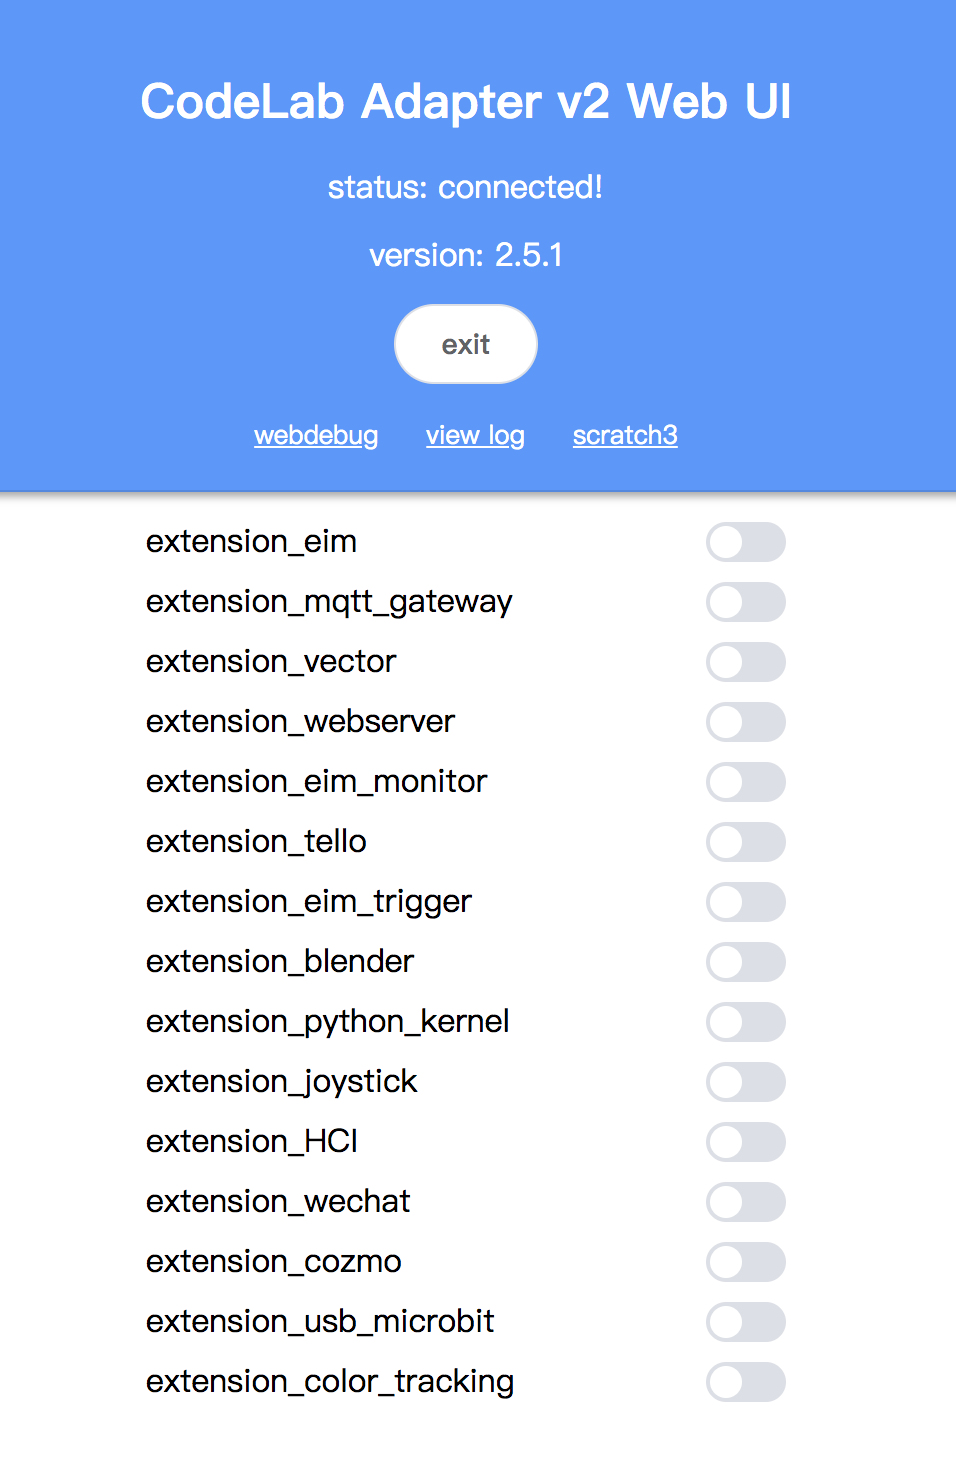
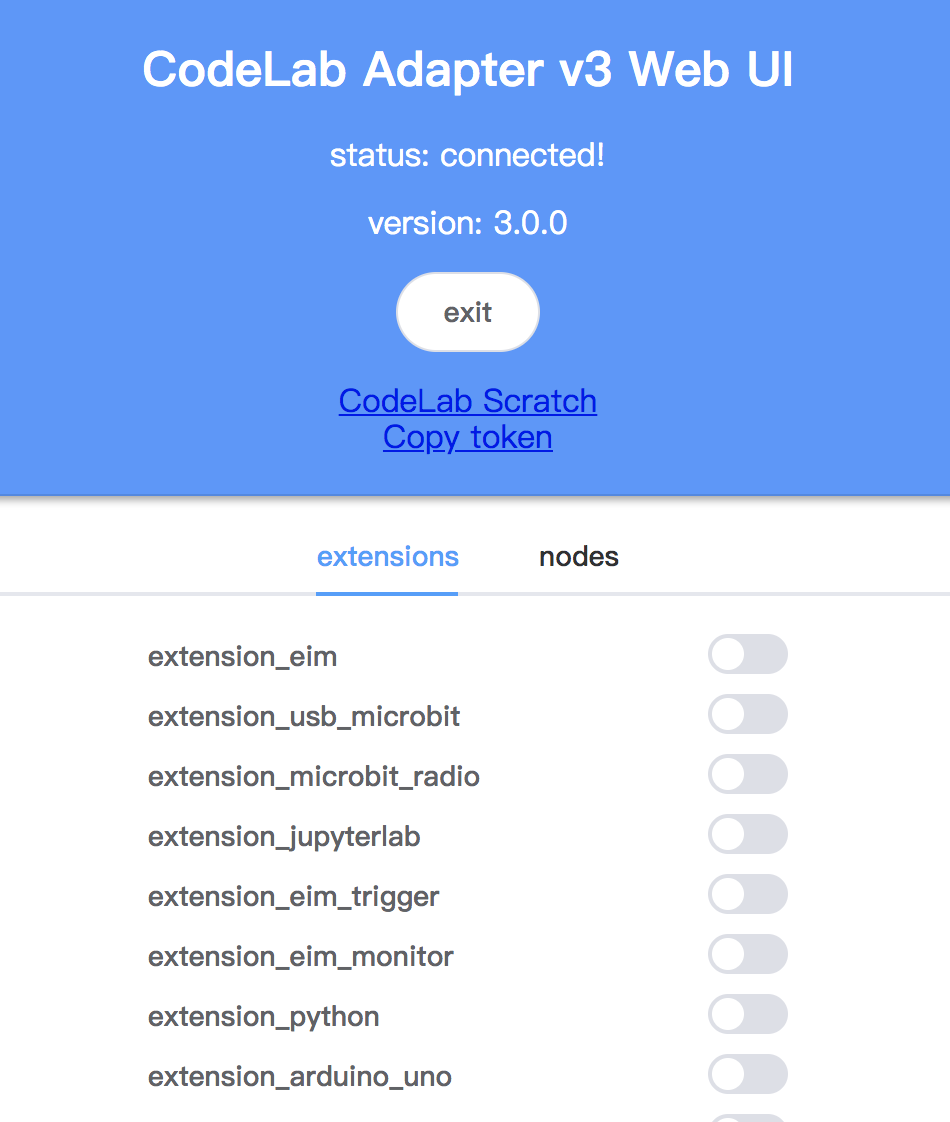
update for v3

Changed region(s): [[0.0, 0.1248, 1.0, 1.0], [0.1526, 0.0312, 0.8547, 0.0936]]

diff --git a/docs/extensions_nodes_mirrors/node_color_tracking.py b/docs/extensions_nodes_mirrors/node_color_tracking.py
@@ -1,0 +1,160 @@
+'''
+Object detection ("Ball tracking") with OpenCV
+    Adapted from the original code developed by Adrian Rosebrock
+    Visit original post: https://www.pyimagesearch.com/2015/09/14/ball-tracking-with-opencv/
+Developed by Marcelo Rovai - MJRoBot.org @ 7Feb2018 
+python3 ball_tracking.py --video 1
+'''
+
+# import the necessary packages
+from collections import deque
+import time
+import argparse
+import queue
+
+import numpy as np
+import imutils
+import cv2
+
+from codelab_adapter_client import AdapterNode
+from codelab_adapter_client.utils import threaded
+
+q = queue.Queue()
+exit_signal = False
+
+
+class ColorTrackingNode(AdapterNode):
+    def __init__(self):
+        super().__init__()
+        self.EXTENSION_ID = "eim/ColorTracking"  # default: eim
+        self.q = q
+    
+    def exit_message_handle(self, topic, payload):
+        self.logger.info("set exit_signal to True")
+        global exit_signal
+        exit_signal = True
+        time.sleep(0.5)
+        super().exit_message_handle(topic, payload)
+        # self.ws.close()
+        self.terminate()
+
+    @threaded
+    def run(self):
+        while self._running:
+            if not self.q.empty():
+                x  = self.q.get()
+                print(f'x: {x}')
+                message = {"payload": {"content": x}}
+                self.publish(message)
+            time.sleep(1/20)
+
+node = ColorTrackingNode()
+node.receive_loop_as_thread()
+node.run()
+
+# construct the argument parse and parse the arguments
+ap = argparse.ArgumentParser()
+# ap.add_argument("-v", "--video", help="path to the (optional) video file")
+ap.add_argument("-c", "--camera", help="choose camera(num)")
+ap.add_argument("-b", "--buffer", type=int, default=64, help="max buffer size")
+args = vars(ap.parse_args())
+
+# define the lower and upper boundaries of the "yellow object"
+# (or "ball") in the HSV color space, then initialize the
+# list of tracked points
+
+colorLower = (24, 100, 100)
+colorUpper = (44, 255, 255)
+pts = deque(maxlen=args["buffer"])
+
+# if a video path was not supplied, grab the reference
+# to the webcam
+# if not args.get("video", False):
+if not args.get("camera", False):
+    camera = cv2.VideoCapture(0)  # 0 1
+
+# otherwise, grab a reference to the video file
+else:
+    camera = cv2.VideoCapture(int(args["camera"]))
+
+# keep looping
+while True:
+    # grab the current frame
+    (grabbed, frame) = camera.read()
+
+    # if we are viewing a video and we did not grab a frame,
+    # then we have reached the end of the video
+    if args.get("video") and not grabbed:
+        break
+
+    # resize the frame, inverted ("vertical flip" w/ 180degrees),
+    # blur it, and convert it to the HSV color space
+    frame = imutils.resize(frame, width=480)
+    # frame = imutils.rotate(frame, angle=180)
+    # blurred = cv2.GaussianBlur(frame, (11, 11), 0)
+    hsv = cv2.cvtColor(frame, cv2.COLOR_BGR2HSV)
+
+    # construct a mask for the color "green", then perform
+    # a series of dilations and erosions to remove any small
+    # blobs left in the mask
+    mask = cv2.inRange(hsv, colorLower, colorUpper)
+    mask = cv2.erode(mask, None, iterations=2)
+    mask = cv2.dilate(mask, None, iterations=2)
+
+    # find contours in the mask and initialize the current
+    # (x, y) center of the ball
+    cnts = cv2.findContours(mask.copy(), cv2.RETR_EXTERNAL,
+                            cv2.CHAIN_APPROX_SIMPLE)[-2]
+    center = None
+
+    # only proceed if at least one contour was found
+    if len(cnts) > 0:
+        # find the largest contour in the mask, then use
+        # it to compute the minimum enclosing circle and
+        # centroid
+        c = max(cnts, key=cv2.contourArea)
+        ((x, y), radius) = cv2.minEnclosingCircle(c)
+        M = cv2.moments(c)
+        center = (int(M["m10"] / M["m00"]), int(M["m01"] / M["m00"]))
+
+        # only proceed if the radius meets a minimum size
+        if radius > 10:
+            # draw the circle and centroid on the frame,
+            # then update the list of tracked points
+            print(int(x), int(y))
+            q.put(x)
+            cv2.circle(frame, (int(x), int(y)), int(radius), (0, 255, 255), 2)
+            cv2.circle(frame, center, 5, (0, 0, 255), -1)
+
+    # update the points queue
+    pts.appendleft(center)
+
+    # loop over the set of tracked points
+    for i in range(1, len(pts)):
+        # if either of the tracked points are None, ignore
+        # them
+        if pts[i - 1] is None or pts[i] is None:
+            continue
+
+        # otherwise, compute the thickness of the line and
+        # draw the connecting lines
+        thickness = int(np.sqrt(args["buffer"] / float(i + 1)) * 2.5)
+        cv2.line(frame, pts[i - 1], pts[i], (0, 0, 255), thickness)
+
+    # show the frame to our screen
+    cv2.imshow("Frame", frame)
+    key = cv2.waitKey(1) & 0xFF
+
+    # if the 'q' key is pressed, stop the loop
+    if key == ord("q"):
+        break
+    if exit_signal == True:
+        break
+    
+    # todo 如果收到某个信号则退出
+
+
+
+# cleanup the camera and close any open windows
+camera.release()
+cv2.destroyAllWindows()

diff --git a/docs/extensions_nodes_mirrors/extension_hello_world.py b/docs/extensions_nodes_mirrors/extension_hello_world.py
@@ -1,0 +1,26 @@
+import time
+from codelab_adapter.core_extension import Extension
+
+
+class HelloWorldExtension(Extension):
+    def __init__(self):
+        super().__init__()
+        self.EXTENSION_ID = "eim"
+
+    def send_message_to_scratch(self, content):
+        message = self.message_template()
+        message["payload"]["content"] = content
+        self.publish(message)
+
+    def extension_message_handle(self, topic, payload):
+        self.logger.info(f'the message payload from scratch: {payload}')
+        content = payload["content"]
+        if type(content) == str:
+            content_send_to_scratch = content[::-1] # 反转字符串
+            self.send_message_to_scratch(content_send_to_scratch)
+
+    def run(self):
+        while self._running:
+            time.sleep(1)
+
+export = HelloWorldExtension

diff --git a/docs/Python_Projects/install_python.md b/docs/Python_Projects/install_python.md
@@ -1,0 +1,44 @@
+# 安装 Python3 ( Install Python3 )
+
+!!! 提醒开发者
+    本地即便没有安装 Python3，CodeLab Adapter 也能正常运行( extension )，如果你想使用 Adapter Node (诸如 node_vector ) ，则需要在本地有 Python3 环境。  
+    安装了 Python3 之后， Adapter 将自动与其关联， 第三方公司/开发者能够使用 Python 生态中的所有资源，为用户去构建新的扩展( extension / node )，这样第三方公司能够将各类 AI /硬件/服务 接入进来 。这为 Adapter 带来了几乎无限的可扩展性。值得注意的事，这种方式的时间成本极低，你只需要构建插件业务逻辑，其他的一切都是免费得到的，从跨平台到强大的连接能力，参考 [jupyterlab](/extension_guide/jupyterlab/)
+
+在 CodeLab Adapter 中，通过点击查看环境，你可以看到本地Python环境是否存在。
+
+![](/img/bdc2f794bd15ed3faab14165b72badc2.png)
+
+你将看到:
+
+![](/img/54cef2d640ff035f772a64425811d6aa.png)
+
+如果你看到的信息和上图类似，则说明你本地已经安装了 Python3，请确保 Python3 版本 **>= 3.6**。 
+
+如果你没有安装过Python3， 本文将引导你安装它。
+
+## Windows用户
+如果之前没有安装过Python3， 推荐下载安装 [Python3.7](http://scratch3-files.just4fun.site/python-3.7.4.exe)。下载完成后，点击安装即可。
+
+如果你之前安装过Python3，但版本低于 **3.6** , 建议卸载后，再安装。
+
+
+## MacOS用户
+MacOS自带了 Python3，如果你看到系统自带的 Python3 版本低于**3.6**， 推荐下载安装 [Python3.7](http://scratch3-files.just4fun.site/python-3.7.5-macosx10.9.pkg)， 下载完成后，点击安装即可。
+
+!!! 提醒
+    如果你是开发者，你的本地环境里可能有很多个版本的 Python3 环境，建议使用 [pyenv](https://github.com/pyenv/pyenv) 来管理它。你可以在配置文件里，[指定 Adapter 使用的 Python 版本](https://adapter.codelab.club/user_guide/settings/#python3_path)。
+
+## Linux用户
+Linux 自带了 Python3，如果你看到系统自带的 Python3 版本低于**3.6**， 推荐使用 [pyenv](https://github.com/pyenv/pyenv) 安装新的 Python3 版本。
+
+你可以在配置文件里，[指定 Adapter 使用的 Python3 版本](https://adapter.codelab.club/user_guide/settings/#python3_path)。
+
+---
+
+
+安装完成之后, 点击 刷新环境
+
+![](/img/da31f790ff1fb874842d861ca8e5f943.png)
+
+
+再次点击 查看环境，你应该可以看到本地Python环境信息。

diff --git a/docs/extension_guide/jupyterlab.md b/docs/extension_guide/jupyterlab.md
@@ -1,0 +1,49 @@
+# [JupyterLab](https://jupyterlab.readthedocs.io/en/stable/)
+
+JupyterLab 是 jupyter notebook 的下一代产品。  
+
+Jupyter Notebook（前身是IPython Notebook）是一个基于Web的交互式计算环境。
+
+如果你正在学习 Python/数据科学/人工智能，它是你绝佳的编程环境。
+
+CodeLab Adapter 将其集成到插件，如果想编辑代码，诸如
+
+*  [编辑 CodeLab Adapter的配置文件](/user_guide/settings/)
+*  [使用 Python 扩展 Scratch的能力](/extension_guide/eim_monitor/)
+*  [构建新插件](/dev_guide/helloworld/)
+
+它都是我们推荐的工具。
+
+或者任何时候你想学习 Python ，JupyterLab 都是你理想的伙伴。
+
+# Tutorial
+## 依赖
+
+{!utils/dependence.md!}
+
+## 步骤 1：打开 Codelab Adapter
+
+{!utils/open_adapter.md!}
+
+运行 **extention_jupyterlab** 插件。
+
+!!! 提醒
+    确保你已经[安装了 Python3](/Python_Projects/install_python/)。  
+    你不必手动安装 **jupyterlab** ，运行插件，CodeLab Adapter 会为你其余的一切。  
+    当然你也可以在命令行里手动安装它。
+
+## 步骤 2：使用 jupyterlab
+jupyterlab 默认将打开 [Adapter主目录](/user_guide/FAQ/#adapter)。
+
+![](/img/ef69bd04ec22e90d3cf449e24c5e83e8.png)
+
+[Adapter主目录](/user_guide/FAQ/#adapter)存放有:
+
+1. [用户配置文件](/user_guide/settings/)
+2. extensions 目录（可以在此修改 extension 的行为（如[eim_monitor](/extension_guide/eim_monitor/) ,修改完后，重新勾选插件即可，不必重启 Adapter）
+3. nodes 目录（可以在此修改 [Adapter Node](/dev_guide/Adapter-Node/) 的行为，修改完后，重新勾选插件即可，不必重启 Adapter）
+4. jupyter notebooks (用于存放Python代码，你可以从这里开始你的Python之旅)
+5. 资源文件(诸如 webui 的 html 文件，你可以自由修改！)
+6. Adapter 运行日志，当你需要[调试](/dev_guide/debug/) extension 时，查看日志将很有帮助。
+
+你可以使用 jupyterlab 随意修改它们。别担心改坏了。如果发现修改后 Adapter无法正常运行。则将整个[ Adapter 主目录](/user_guide/FAQ/#adapter)删除即可，重启 Adapter，你将得到一个崭新的 Adapter 主目录。它是为你学习而构建的环境，别担心玩坏它，尽情探索吧。

diff --git a/docs/user_guide/FAQ.md b/docs/user_guide/FAQ.md
@@ -84,6 +84,11 @@ CodeLab Adapter 几乎支持任何平台，无论是 Scratch 3.0 构建的还是
 - [json message](/dev_guide/json-message/)。
 - 参考[使用 Python 拓展 Scratch 的能力](https://blog.just4fun.site/scratch-adapter-eim-script.html#_4)。
 
+## 如何找到 Adapter 主目录
+Adapter 主目录，也是 Adapter 的日志目录，这儿存放了 Adapter 运行时使用的数据。
+
+Mac/Linux 用户的 Adapter 主目录在：`~/codelab_adapter`，如果找不到插件目录（如 Windows 用户），可以通过 CodeLab Adapter Web UI 工具栏里的`插件->打开插件目录`打开它。
+
 ## 如何找到插件目录
 
 Mac/Linux 用户的插件目录在：`~/codelab_adapter/extensions`，如果找不到插件目录（如 Windows 用户），可以通过 CodeLab Adapter Web UI 工具栏里的`插件->打开插件目录`打开它。
@@ -149,3 +154,13 @@ CodeLab Adapter 支持离线使用，目前有 2 种方式使用它。
 推荐使用`方法 1`。
 
 典型的应用场景是在电脑无法联网时，诸如使用 [Tello](/extension_guide/tello/) 时。
+
+## 查看本地环境
+
+![](/img/bdc2f794bd15ed3faab14165b72badc2.png)
+
+你将看到:
+
+![](/img/54cef2d640ff035f772a64425811d6aa.png)
+
+其中包含了当前 Adapter 所处的计算机环境相关的信息。

diff --git a/docs/dev_guide/debug.md b/docs/dev_guide/debug.md
@@ -1,14 +1,15 @@
 # Debug
 
 ## 3 种 debug 方式
+Adapter 本质是个消息系统，调试的关键是观察往来的消息。
 
 目前有 3 种 debug 方式：
 
-1.  基于命令行的调试
-2.  基于日志的调试
-3.  基于 web 的调试
+1.  基于命令行的调试（只能看到消息）
+2.  基于日志的调试 (可以看到 log 信息)
+3.  基于 web 的调试（只能看到消息）
 
-我自己最偏好第一种：`基于命令行的调试`。
+我自己最偏好第一种：`基于命令行的调试`。如果你希望看到logger信息，则使用第2种方式。
 
 下边逐一陈述。
 
@@ -55,11 +56,13 @@ for line in sh.codelab_message_monitor(_iter=True):
 
 便可实时查看日志。
 
+<!--
 ### 基于 web 的调试
 
 入口在 Web UI 中。
 
 <img src="../../img/v2/adapter_webdebug_inter.png" width="300">
+-->
 
 !!! tip
 

diff --git a/docs/extension_guide/tello.md b/docs/extension_guide/tello.md
@@ -1,9 +1,9 @@
 # DJI Tello（Edu）
 
 !!! 提醒
-    Tello 会占用 wifi，导致电脑无法联网，需要使用 CodeLab Adapter 的离线模式：[FAQ：离线使用](https://adapter.codelab.club/user_guide/FAQ/#_6)
+    Tello 会占用 wifi，导致电脑无法联网，需要使用 CodeLab Adapter 的离线模式：[FAQ：离线使用](/user_guide/FAQ/#_6)
 
-在[codelab-adapter](https://adapter.codelab.club/user_guide/install/)最新版本中, 已经内置了Tello插件。
+在[codelab-adapter](/user_guide/install/)最新版本中, 已经内置了Tello插件。
 
 ### 步骤 1：打开 CodeLab Scratch
 下载 [CodeLab Scratch Desktop(离线版)](https://www.codelab.club/blog/codelab-download/)，并运行它。

diff --git a/docs/dev_guide/Adapter-Node.md b/docs/dev_guide/Adapter-Node.md
@@ -1,4 +1,7 @@
 # Adapter Node
+!!! 提醒
+    在 Adapter 3.0中，Adapter Node替代了原先 server 的功能，可以直接放在[ Adapter 主目录](/user_guide/FAQ/#adapter)下的 nodes 目录里，供用户作为 Adapter 的扩展使用。在未来，我们将允许用户在插件库里从云端下载Adapter Node！目前只支持从云端下载 extension。
+
 在上一节：[hello world](/dev_guide/helloworld/) 中我们学会了如何自定义一个 extension。
 
 extension 有如下的限制：

diff --git a/docs/utils/open_scratch.md b/docs/utils/open_scratch.md
@@ -1,5 +1,5 @@
 点击 Web UI 上的`scratch3`链接, 或者点击[这儿](http://scratch3v2.codelab.club){target=_blank}, 将打开如下页面:
 
-![](../../img/v2/codelab-scratch3.png)
+![](/img/v2/codelab-scratch3.png)
 
 图中箭头所指的小圆点呈现绿色 说明 Codelab Adapter 与 Scratch3.0 的连接正常。

diff --git a/docs/utils/open_adapter.md b/docs/utils/open_adapter.md
@@ -2,4 +2,4 @@
 
 Codelab Adapter 启动之后，将打开默认浏览器。
 
-<img width="300px" src="../../img/v2/adapter_scratch_style_ui.png"/>
+<img width="300px" src="/img/v2/adapter_scratch_style_ui.png"/>

diff --git a/docs/utils/update.md b/docs/utils/update.md
@@ -6,3 +6,5 @@
 
 
 旧的插件会被备份到同级目录(如`extensions_1540437691`)。
+
+<!--3.0 更新 8ad0bd82f62e49cc1ebb02d4a44b74a2.png-->
